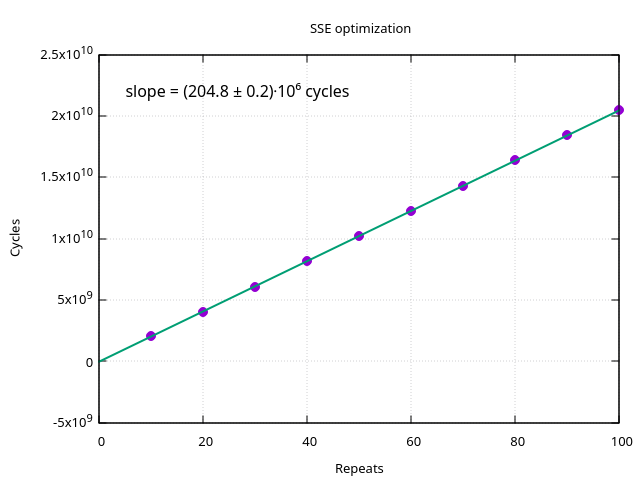
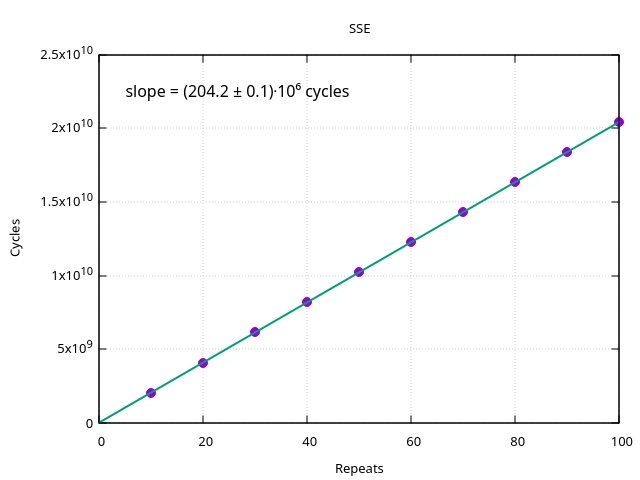
NORMAL-->BASELINE

diff --git a/src/mandelbrot.cpp b/src/mandelbrot.cpp
@@ -206,7 +206,9 @@ status_t compute_pixel_colors(context_t* ctx)
 {
     uint8_t alpha = ctx->argv.alpha;
     //-------------------------------------------------------------------------
-    sf::Clock clock;
+    uint32_t elapsed_time;
+    //-------------------------------------------------------------------------
+    static sf::Clock clock;
     //-------------------------------------------------------------------------
     if (ctx->argv.pulsation) {
         uint32_t elapsed_time = clock.getElapsedTime().asMilliseconds();
@@ -374,16 +376,16 @@ status_t make_table(test_ctx_t* ctx, uint32_t mode)
     FILE* table = nullptr;
     switch (mode) {
         case BASELINE:
-            table = fopen("no-optimization-table.txt", "w");
+            table = fopen("baseline.txt", "w");
             break;
         case SSE:
-            table = fopen("sse-table.txt", "w");
+            table = fopen("sse.txt", "w");
             break;
         case AVX2:
-            table = fopen("avx2-table.txt", "w");
+            table = fopen("avx2.txt", "w");
             break;
         case AVX512:
-            table = fopen("avx512-table.txt", "w");
+            table = fopen("avx512.txt", "w");
             break;
         default:
             return ERROR;
@@ -420,16 +422,16 @@ status_t graphic_plot(test_ctx_t* ctx, uint32_t mode)
     //-------------------------------------------------------------------------
     switch (mode) {
         case BASELINE:
-            set_gnuplot_settings(ctx, gnuplot, "No optimization");
+            set_gnuplot_settings(ctx, gnuplot, "BASELINE");
             break;
         case SSE:
-            set_gnuplot_settings(ctx, gnuplot, "SSE optimization");
+            set_gnuplot_settings(ctx, gnuplot, "SSE");
             break;
         case AVX2:
-            set_gnuplot_settings(ctx, gnuplot, "AVX2 optimization");
+            set_gnuplot_settings(ctx, gnuplot, "AVX2");
             break;
         case AVX512:
-            set_gnuplot_settings(ctx, gnuplot, "AVX512 optimization");
+            set_gnuplot_settings(ctx, gnuplot, "AVX512");
             break;
         default:
             return ERROR;

diff --git a/README.md b/README.md
@@ -100,20 +100,20 @@ taskset -c <core number>
 
 <table>
     <tr>
-        <td><img src="https://github.com/user-attachments/assets/ecac6db8-5b0f-4494-af4a-1acc667c5903"/></td>
+        <td><img src="https://github.com/user-attachments/assets/9faaa748-a012-4261-8f8a-66ad18c216c4"/></td>
         <td>
             <table>
             	<tr><th>Repeats</th><th>Cycles</th></tr>
-            	<tr><th>10</th><th>3862.9⋅10⁶</th></tr>
-            	<tr><th>20</th><th>7688.8⋅10⁶</th></tr>
-            	<tr><th>30</th><th>11491.9⋅10⁶</th></tr>
-            	<tr><th>40</th><th>15373.4⋅10⁶</th></tr>
-            	<tr><th>50</th><th>19273.7⋅10⁶</th></tr>
-            	<tr><th>60</th><th>23025.0⋅10⁶</th></tr>
-            	<tr><th>70</th><th>26952.4⋅10⁶</th></tr>
-            	<tr><th>80</th><th>30792.5⋅10⁶</th></tr>
-            	<tr><th>90</th><th>34677.4⋅10⁶</th></tr>
-            	<tr><th>100</th><th>38366.3⋅10⁶</th></tr>
+            	<tr><th>10</th><th>3843.0⋅10⁶</th></tr>
+            	<tr><th>20</th><th>7693.2⋅10⁶</th></tr>
+            	<tr><th>30</th><th>11493.0⋅10⁶</th></tr>
+            	<tr><th>40</th><th>15312.2⋅10⁶</th></tr>
+            	<tr><th>50</th><th>19239.9⋅10⁶</th></tr>
+            	<tr><th>60</th><th>23032.1⋅10⁶</th></tr>
+            	<tr><th>70</th><th>26964.6⋅10⁶</th></tr>
+            	<tr><th>80</th><th>30808.1⋅10⁶</th></tr>
+            	<tr><th>90</th><th>34613.6⋅10⁶</th></tr>
+            	<tr><th>100</th><th>38490.9⋅10⁶</th></tr>
             </table>
         </td>
     </tr>
@@ -121,20 +121,20 @@ taskset -c <core number>
 
 <table>
     <tr>
-        <td><img src="https://github.com/user-attachments/assets/aa2c9031-9c02-4c38-939b-c3ed2c15c011"/></td>
+        <td><img src="https://github.com/user-attachments/assets/64f52c0f-27d4-40e5-b4bd-1d65cb2efff4"/></td>
         <td>
             <table>
             	<tr><th>Repeats</th><th>Cycles</th></tr>
-            	<tr><th>10</th><th>2044.1⋅10⁶</th></tr>
-            	<tr><th>20</th><th>4058.9⋅10⁶</th></tr>
-            	<tr><th>30</th><th>6099.7⋅10⁶</th></tr>
-            	<tr><th>40</th><th>8184.1⋅10⁶</th></tr>
-            	<tr><th>50</th><th>10236.7⋅10⁶</th></tr>
-            	<tr><th>60</th><th>12252.6⋅10⁶</th></tr>
-            	<tr><th>70</th><th>14318.8⋅10⁶</th></tr>
-            	<tr><th>80</th><th>16371.7⋅10⁶</th></tr>
-            	<tr><th>90</th><th>18414.0⋅10⁶</th></tr>
-            	<tr><th>100</th><th>20446.9⋅10⁶</th></tr>
+            	<tr><th>10</th><th>2057.5⋅10⁶</th></tr>
+            	<tr><th>20</th><th>4078.6⋅10⁶</th></tr>
+            	<tr><th>30</th><th>6135.6⋅10⁶</th></tr>
+            	<tr><th>40</th><th>8197.9⋅10⁶</th></tr>
+            	<tr><th>50</th><th>10210.3⋅10⁶</th></tr>
+            	<tr><th>60</th><th>12256.4⋅10⁶</th></tr>
+            	<tr><th>70</th><th>14285.3⋅10⁶</th></tr>
+            	<tr><th>80</th><th>16347.7⋅10⁶</th></tr>
+            	<tr><th>90</th><th>18378.4⋅10⁶</th></tr>
+            	<tr><th>100</th><th>20435.6⋅10⁶</th></tr>
             </table>
         </td>
     </tr>
@@ -142,20 +142,20 @@ taskset -c <core number>
 
 <table>
     <tr>
-        <td><img src="https://github.com/user-attachments/assets/c9ff0e55-65f4-4ffb-a8ba-1d3cb1c1be66"/></td>
+        <td><img src="https://github.com/user-attachments/assets/13b38472-ac3d-44a3-ad41-65308b06e394"/></td>
         <td>
             <table>
             	<tr><th>Repeats</th><th>Cycles</th></tr>
-            	<tr><th>10</th><th>1066.7⋅10⁶</th></tr>
-            	<tr><th>20</th><th>2095.9⋅10⁶</th></tr>
-            	<tr><th>30</th><th>3141.4⋅10⁶</th></tr>
-            	<tr><th>40</th><th>4190.9⋅10⁶</th></tr>
-            	<tr><th>50</th><th>5239.3⋅10⁶</th></tr>
-            	<tr><th>60</th><th>6292.0⋅10⁶</th></tr>
-            	<tr><th>70</th><th>7316.2⋅10⁶</th></tr>
-            	<tr><th>80</th><th>8361.0⋅10⁶</th></tr>
-            	<tr><th>90</th><th>9422.8⋅10⁶</th></tr>
-            	<tr><th>100</th><th>10481.7⋅10⁶</th></tr>
+            	<tr><th>10</th><th>1056.7⋅10⁶</th></tr>
+            	<tr><th>20</th><th>2099.8⋅10⁶</th></tr>
+            	<tr><th>30</th><th>3137.1⋅10⁶</th></tr>
+            	<tr><th>40</th><th>4187.1⋅10⁶</th></tr>
+            	<tr><th>50</th><th>5243.5⋅10⁶</th></tr>
+            	<tr><th>60</th><th>6279.4⋅10⁶</th></tr>
+            	<tr><th>70</th><th>7327.1⋅10⁶</th></tr>
+            	<tr><th>80</th><th>8385.2⋅10⁶</th></tr>
+            	<tr><th>90</th><th>9416.9⋅10⁶</th></tr>
+            	<tr><th>100</th><th>10466.3⋅10⁶</th></tr>
             </table>
         </td>
     </tr>
@@ -163,22 +163,20 @@ taskset -c <core number>
 
 <table>
     <tr>
-        <td><img src="https://github.com/user-attachments/assets/858beb54-2e45-4372-bcd0-e469b4ead3a1"/></td>
+        <td><img src="https://github.com/user-attachments/assets/72df650b-db1e-400e-bf49-41d3eb273a2a"/></td>
         <td>
             <table>
-                <table>
-                	<tr><th>Repeats</th><th>Cycles</th></tr>
-                	<tr><th>10</th><th>720.7⋅10⁶</th></tr>
-                	<tr><th>20</th><th>1434.2⋅10⁶</th></tr>
-                	<tr><th>30</th><th>2133.1⋅10⁶</th></tr>
-                	<tr><th>40</th><th>2844.0⋅10⁶</th></tr>
-                	<tr><th>50</th><th>3568.8⋅10⁶</th></tr>
-                	<tr><th>60</th><th>4268.6⋅10⁶</th></tr>
-                	<tr><th>70</th><th>4978.0⋅10⁶</th></tr>
-                	<tr><th>80</th><th>5676.4⋅10⁶</th></tr>
-                	<tr><th>90</th><th>6354.0⋅10⁶</th></tr>
-                	<tr><th>100</th><th>7066.1⋅10⁶</th></tr>
-                </table>
+                <tr><th>Repeats</th><th>Cycles</th></tr>
+                <tr><th>10</th><th>714.6⋅10⁶</th></tr>
+                <tr><th>20</th><th>1421.1⋅10⁶</th></tr>
+                <tr><th>30</th><th>2157.6⋅10⁶</th></tr>
+                <tr><th>40</th><th>2887.1⋅10⁶</th></tr>
+                <tr><th>50</th><th>3562.3⋅10⁶</th></tr>
+                <tr><th>60</th><th>4281.5⋅10⁶</th></tr>
+                <tr><th>70</th><th>4973.0⋅10⁶</th></tr>
+                <tr><th>80</th><th>5659.6⋅10⁶</th></tr>
+                <tr><th>90</th><th>6367.3⋅10⁶</th></tr>
+                <tr><th>100</th><th>7071.8⋅10⁶</th></tr>
             </table>
         </td>
     </tr>
@@ -193,14 +191,14 @@ taskset -c <core number>
 
 <table>
     <tr>
-        <td><img src="https://github.com/user-attachments/assets/e46d55dd-e82e-426f-a6b3-e00999179c54"/></td>
+        <td><img src="https://github.com/user-attachments/assets/66ae9a77-7990-4ed0-a4b1-1e22b89fc6ba"/></td>
         <td>
             <table>
             	<tr><th>Реализация</th><th>Количество тактов</th></tr>
-            	<tr><th>BASELINE</th><th>(384.5 ± 0.5)⋅10⁶</th></tr>
-            	<tr><th>SSE</th><th>(204.8 ± 0.2)⋅10⁶</th></tr>
+            	<tr><th>BASELINE</th><th>(385.2 ± 0.4)⋅10⁶</th></tr>
+            	<tr><th>SSE</th><th>(204.2 ± 0.1)⋅10⁶</th></tr>
             	<tr><th>AVX2</th><th>(104.6 ± 0.1)⋅10⁶</th></tr>
-            	<tr><th>AVX512</th><th>(70.5 ± 0.1)⋅10⁶</th></tr>
+            	<tr><th>AVX512</th><th>(70.5 ± 0.2)⋅10⁶</th></tr>
             </table>
         </td>
     </tr>
